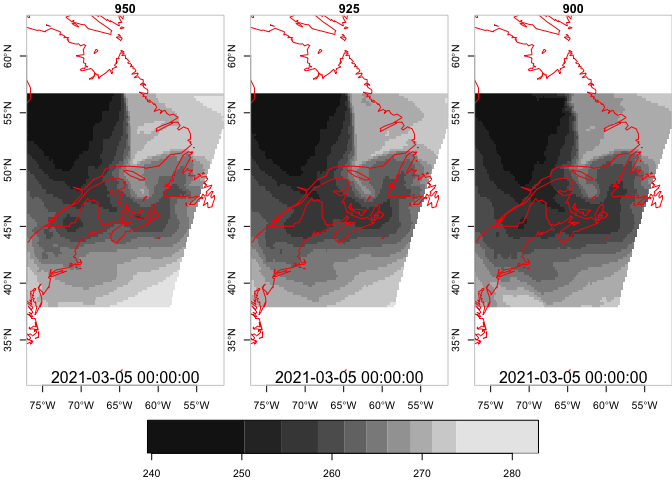
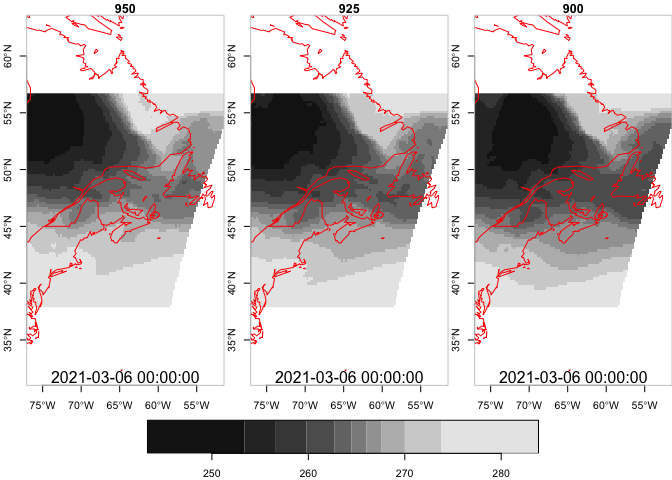
allow get_var to accept multiple variables, update README

diff --git a/README.md b/README.md
@@ -1,8 +1,6 @@
 nam218grads
 ================
 
-# nam281grads
-
 This package simplifies access to the [NCEP NOMADS grads
 server](http://nomads.ncep.noaa.gov:80/dods/nam) for the
 [NAM](https://www.ncdc.noaa.gov/data-access/model-data/model-datasets/north-american-mesoscale-forecast-system-nam)
@@ -30,12 +28,13 @@ Retrieve a URL for a resource by date, like yesterday’s forecast at
 forecast plus the prior 6.
 
 ``` r
+library(stars)
 library(nam218grads)
 uri <- grads_uri(date = Sys.Date()-1, product = "nam_00z")
 uri
 ```
 
-    ## [1] "http://nomads.ncep.noaa.gov:80/dods/nam/nam20210303/nam_00z"
+    ## [1] "http://nomads.ncep.noaa.gov:80/dods/nam/nam20210304/nam_00z"
 
 ### Get a handle to a resource
 
@@ -70,21 +69,21 @@ times <- get_time(x)
 times
 ```
 
-    ##  [1] "2021-03-05 00:00:00 UTC" "2021-03-05 03:00:00 UTC"
-    ##  [3] "2021-03-05 06:00:00 UTC" "2021-03-05 09:00:00 UTC"
-    ##  [5] "2021-03-05 12:00:00 UTC" "2021-03-05 15:00:00 UTC"
-    ##  [7] "2021-03-05 18:00:00 UTC" "2021-03-05 21:00:00 UTC"
-    ##  [9] "2021-03-06 00:00:00 UTC" "2021-03-06 03:00:00 UTC"
-    ## [11] "2021-03-06 06:00:00 UTC" "2021-03-06 09:00:00 UTC"
-    ## [13] "2021-03-06 12:00:00 UTC" "2021-03-06 15:00:00 UTC"
-    ## [15] "2021-03-06 18:00:00 UTC" "2021-03-06 21:00:00 UTC"
-    ## [17] "2021-03-07 00:00:00 UTC" "2021-03-07 03:00:00 UTC"
-    ## [19] "2021-03-07 06:00:00 UTC" "2021-03-07 09:00:00 UTC"
-    ## [21] "2021-03-07 12:00:00 UTC" "2021-03-07 15:00:00 UTC"
-    ## [23] "2021-03-07 18:00:00 UTC" "2021-03-07 21:00:00 UTC"
-    ## [25] "2021-03-08 00:00:00 UTC" "2021-03-08 03:00:00 UTC"
-    ## [27] "2021-03-08 06:00:00 UTC" "2021-03-08 09:00:00 UTC"
-    ## [29] "2021-03-08 12:00:00 UTC"
+    ##  [1] "2021-03-06 00:00:00 UTC" "2021-03-06 03:00:00 UTC"
+    ##  [3] "2021-03-06 06:00:00 UTC" "2021-03-06 09:00:00 UTC"
+    ##  [5] "2021-03-06 12:00:00 UTC" "2021-03-06 15:00:00 UTC"
+    ##  [7] "2021-03-06 18:00:00 UTC" "2021-03-06 21:00:00 UTC"
+    ##  [9] "2021-03-07 00:00:00 UTC" "2021-03-07 03:00:00 UTC"
+    ## [11] "2021-03-07 06:00:00 UTC" "2021-03-07 09:00:00 UTC"
+    ## [13] "2021-03-07 12:00:00 UTC" "2021-03-07 15:00:00 UTC"
+    ## [15] "2021-03-07 18:00:00 UTC" "2021-03-07 21:00:00 UTC"
+    ## [17] "2021-03-08 00:00:00 UTC" "2021-03-08 03:00:00 UTC"
+    ## [19] "2021-03-08 06:00:00 UTC" "2021-03-08 09:00:00 UTC"
+    ## [21] "2021-03-08 12:00:00 UTC" "2021-03-08 15:00:00 UTC"
+    ## [23] "2021-03-08 18:00:00 UTC" "2021-03-08 21:00:00 UTC"
+    ## [25] "2021-03-09 00:00:00 UTC" "2021-03-09 03:00:00 UTC"
+    ## [27] "2021-03-09 06:00:00 UTC" "2021-03-09 09:00:00 UTC"
+    ## [29] "2021-03-09 12:00:00 UTC"
 
 ``` r
 levels <- get_lev(x)
@@ -151,14 +150,16 @@ dims
 
 Retrieving data will return contiguous arrays of data. We provide a
 function `get_var_array` that expects the slab coordinates in integer
-run-length encoding for each dimension as . This function returns an
-array of cell values.
+run-length encoding for each dimension as `[start_index, count]`. This
+function returns an array of cell values - for range of pressure levels
+at different times.
 
 ``` r
-a <- nam218grads::get_var_array(x, "tmpprs",list(lon = c(110, 100),
-                                  lat = c(150, 75),
-                                  lev = c(3, 5),
-                                  time = c(1, 12)))
+a <- nam218grads::get_var_array(x, "tmpprs", 
+                                list(lon = c(110, 100),
+                                     lat = c(150, 75),
+                                     lev = c(3, 5),
+                                     time = c(1, 12)))
 str(a)
 ```
 
@@ -168,8 +169,8 @@ str(a)
 
 The `get_var` function is a convenient wrapper around the
 `get_var_array` function. Users specify the slab limits with ‘real
-world’ units, and a [`stars`](https://r-spatial.github.io/stars/) is
-returned (although returning an array is an option).
+world’ units, and a [`stars`](https://r-spatial.github.io/stars/) object
+is returned (although returning an array is an option).
 
 ``` r
 s <- nam218grads::get_var(x, "tmpprs",
@@ -181,20 +182,47 @@ s
 
     ## stars object with 4 dimensions and 1 attribute
     ## attribute(s), summary of first 1e+05 cells:
-    ##        X        
-    ##  Min.   :241.7  
-    ##  1st Qu.:255.1  
-    ##  Median :262.0  
-    ##  Mean   :261.1  
-    ##  3rd Qu.:268.8  
-    ##  Max.   :276.9  
+    ##     tmpprs      
+    ##  Min.   :244.4  
+    ##  1st Qu.:259.0  
+    ##  Median :265.1  
+    ##  Mean   :265.1  
+    ##  3rd Qu.:271.9  
+    ##  Max.   :283.7  
     ##  NA's   :11260  
     ## dimension(s):
     ##      from  to         offset     delta  refsys point values x/y
     ## x       1 226       -77.0816  0.113384  WGS 84    NA   NULL [x]
     ## y       1 170        56.7171 -0.110827  WGS 84    NA   NULL [y]
     ## z       1   3            950       -25      NA    NA   NULL    
-    ## time    1  12 2021-03-05 UTC   3 hours POSIXct    NA   NULL
+    ## time    1  12 2021-03-06 UTC   3 hours POSIXct    NA   NULL
+
+You can also retrieve multiple variables. Note in the example below that
+`ugrd10m` and `vgrd10m` (wind component speeds at 10m above surface) do
+not have a `lev` dimension so we can ignore the `lev` argument.
+
+``` r
+winds <- nam218grads::get_var(x, c("ugrd10m", "vgrd10m"),
+                          bb = c(-77.0, -51.5, 37.9, 56.7),
+                          time = times[5:7])
+winds
+```
+
+    ## stars object with 3 dimensions and 2 attributes
+    ## attribute(s):
+    ##     ugrd10m           vgrd10m       
+    ##  Min.   :-17.983   Min.   :-13.765  
+    ##  1st Qu.:  3.370   1st Qu.: -4.543  
+    ##  Median :  5.866   Median : -2.550  
+    ##  Mean   :  4.605   Mean   : -1.180  
+    ##  3rd Qu.:  8.369   3rd Qu.:  1.776  
+    ##  Max.   : 21.627   Max.   : 14.740  
+    ##  NA's   :14664     NA's   :14664    
+    ## dimension(s):
+    ##      from  to                  offset     delta  refsys point values x/y
+    ## x       1 226                -77.0816  0.113384  WGS 84    NA   NULL [x]
+    ## y       1 170                 56.7171 -0.110827  WGS 84    NA   NULL [y]
+    ## time    1   3 2021-03-06 12:00:00 UTC   3 hours POSIXct    NA   NULL
 
 #### Close the handle
 
@@ -206,7 +234,8 @@ close_grads(x)
 
 ### Plot the levels at different times
 
-First time slice…
+Let’s use the temperature at various pressure levels in variable `s` for
+some plotting. First time slice…
 
 ``` r
 if (require(maps)){
@@ -222,6 +251,8 @@ if (require(maps)){
     ## Loading required package: maps
 
 ![](README_files/figure-gfm/plot_time_1-1.png)<!-- -->
+
+And the last time slice…
 
 ``` r
 if (require(maps)){
